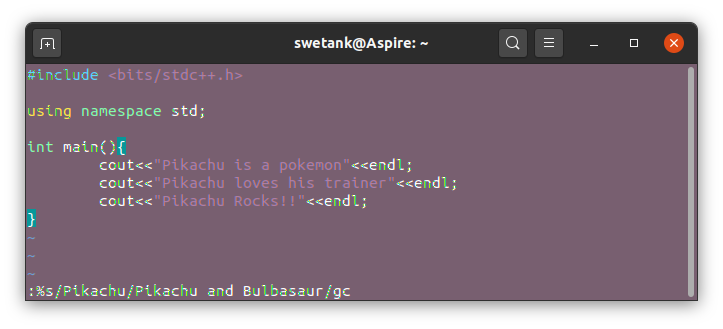
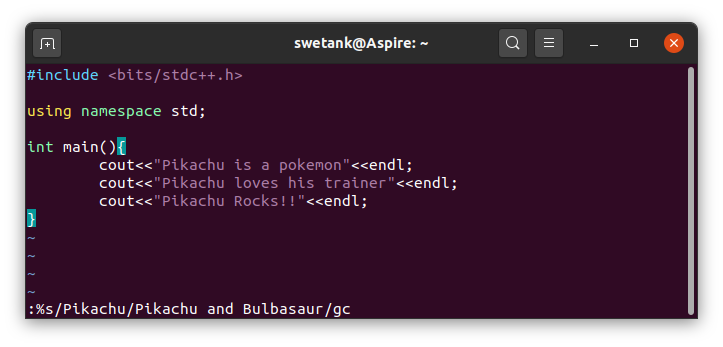
updated post and added files.

diff --git a/_posts/2020-07-01-useful-vim-commands.md b/_posts/2020-07-01-useful-vim-commands.md
@@ -7,4 +7,23 @@ comments: true
 
 Following list contains some of useful and my favourites vim commands I've come across. The list is in no particular order and I'll update it as I come across. 
 
+## 1. Search and Replace
+
+~~~
+%s/Pikachu/Pikachu and Bulbasaur/gc
+~~~
+
 ![Crepe](/assets/img/posts/1/pikachu-bulbasaur.png){: .mx-auto.d-block :}
+
+This is a very powerful command, if you want to replace single occurence or all.
+
+This first *Pikachu* is the search term, followed by *Pikachu and Bulbasaur* which is the term to be replaced.
+
+Hit Enter, and you will be given few options:
+*   *y* - yes, to replace currently highlighted text.
+*   *n* - no, not to replace currently highlighted text.
+*   *a* - all, to apply changes to all the term.
+*   *q* - quits, without changing anything.
+*   *l* - do the last change, then exit.
+
+![Crepe](/assets/img/posts/1/replace-with-pikachu.png){: .mx-auto.d-block :}
